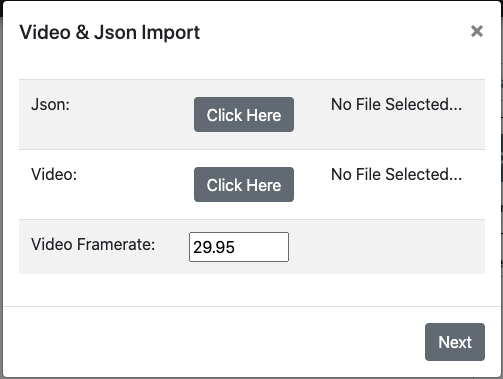
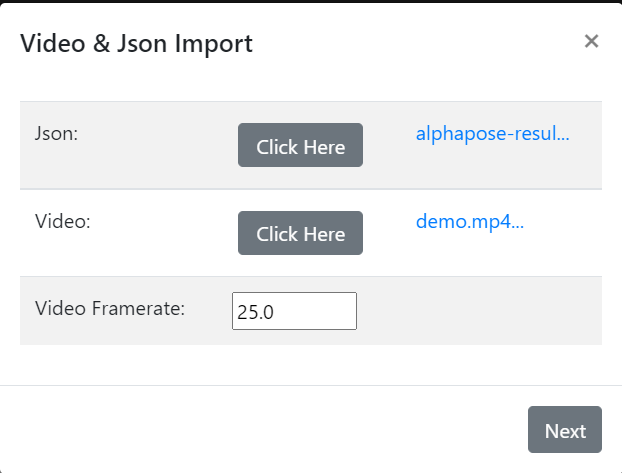
update docs

diff --git a/UI/html/curate.html b/UI/html/curate.html
@@ -57,7 +57,7 @@
                     <tr>
                         <td>Video Framerate:</td>
                         <td>
-                            <input type="text" value="29.95" style="width: 100px"
+                            <input type="text" value="25.0" style="width: 100px"
                                    class="custom-text-input"
                                    id="framerate_input"
                                    aria-describedby="inputGroupFileAddon01">

diff --git a/Tracking/AlphaTracker/setting.py b/Tracking/AlphaTracker/setting.py
@@ -41,7 +41,7 @@ video_paths = [
   './data/demo.mp4',
   ]   # make sure video names are different from each other
 start_frame = 0   # id of the start frame of the video
-end_frame = 300   # id of the last frame of the video
+end_frame = 9737   # id of the last frame of the video
 max_pid_id_setting = 2    # number of mice in the video
 result_folder = './track_result/'   # path to the folder used to save the result
 remove_oriFrame = False   # whether to remove the original frame that generated from video

diff --git a/Manual/UI.md b/Manual/UI.md
@@ -11,28 +11,29 @@ Download and unzip the file.
 
 ### Running
 
-Run `server.py` script in command window in the unzipped folder. A window should appear in the user's browser. From there, select a program you want to run.
+Run `python server.py` in command window in the unzipped folder. A window should appear in the user's browser. Then click `html/`. From there, select a program you want to run. `cluster.html` is the Cluster UI and `curate.html` is the Tracking UI.
 
-<img src = "media/window.png" width = "400" >
+<img src="media/html.jpg" width = "300" /><img src="media/window.png" width = "400" />
 
 <br>
     
+
 ## Tracking UI
 
 
 ### Import data
 
 
-- Click the first `Click Here` button to upload JSON file.
+- Click the first `Click Here` button to upload the track result JSON file. For example, [alphapose-results-forvis-tracked.json](../Tracking/AlphaTracker/track_result/alphapose-results-forvis-tracked.json)
 
-- Click the second `Click Here`button to upload the video.
+- Click the second `Click Here`button to upload the original video. For example, [demo.mp4](../Tracking/AlphaTracker/data/demo.mp4)
 
-- Specify the frame rate of the imported video. *The default frame rate value is* `29.95`.
- 
+- Specify the frame rate of the imported video. *The default frame rate value is* `25.0`.
+
     <img src = "media/1.png" width = "400">
- 
+
  <br>
- 
+
 ### User interface
 
 The functions of each element in the toolbar is explained by the numerical order shown in the figure.
@@ -81,17 +82,17 @@ The functions of each element in the toolbar is explained by the numerical order
 ### Import Data
 To  import data from Alphatracker clustering, follow the instructions shown on corresponding pop-ups.
 
-- Step 1: 
+- Step 1:  Upload the JSON file that contains the clip information. For example, [clips_info.json](../BehavioralClustering/data_for_ui_1/clips_info.json)
 
     <img src = "media/4.png" width = 400>
 
 
-- Step 2: Specify the frame rate of the imported video. *The default frame rate value is* `30`.
+- Step 2: Click the `Import` button and upload the original video. Then specify the frame rate of the imported video. *The default frame rate value is* `30`.
 
     <img src = "media/5.png" width = 400>
 
 
-- Step 3: 
+- Step 3: Upload the JSON file that contains the cluster tree information. For example, [Z_all_twoMice.json](../BehavioralClustering/data_for_ui_1/Z_all_twoMice.json)
 
     <img src = "media/6.png" width = 400>
 
